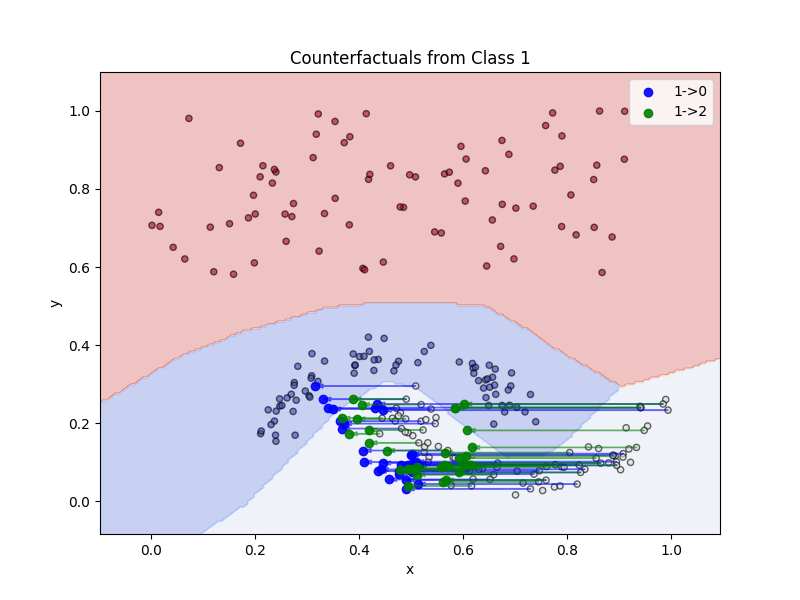
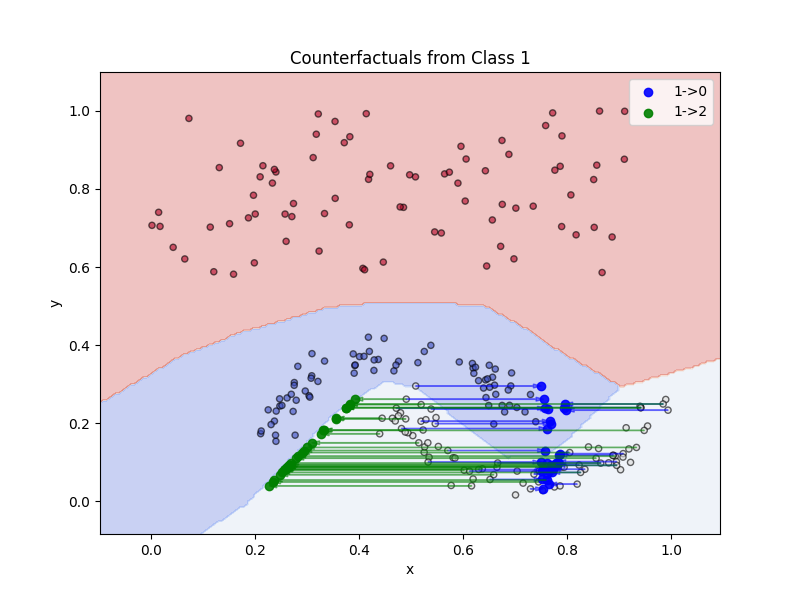
masked moons better

Changed region(s): [[0.3125, 0.63, 0.7188, 0.84]]

diff --git a/conditional_counteRGAN/moons/config.py b/conditional_counteRGAN/moons/config.py
@@ -2,10 +2,10 @@ config = {
     "seed": 42,
     "epochs": 600,
     "batch_size": 128,
-    "lr_G": 1e-3,
-    "lr_D": 1e-3,
+    "lr_G": 3e-4,
+    "lr_D": 1e-4,
     "lambda_cls": 2.0,
-    "lambda_reg": 1.0,
+    "lambda_reg": 3.0,
     "input_dim": 2,
     "hidden_dim": 32,
     "out_dir": "results",
